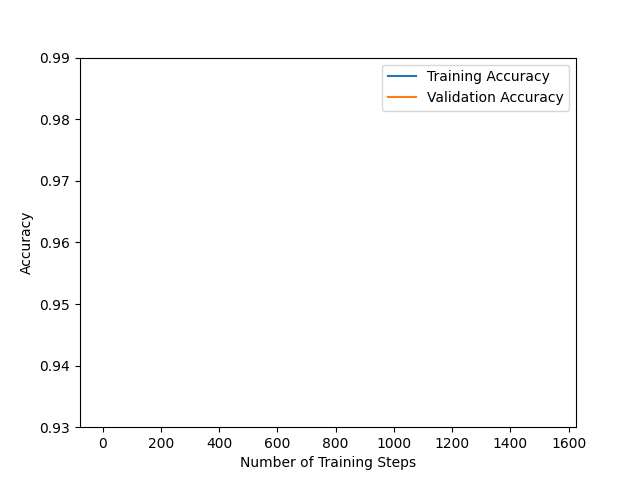
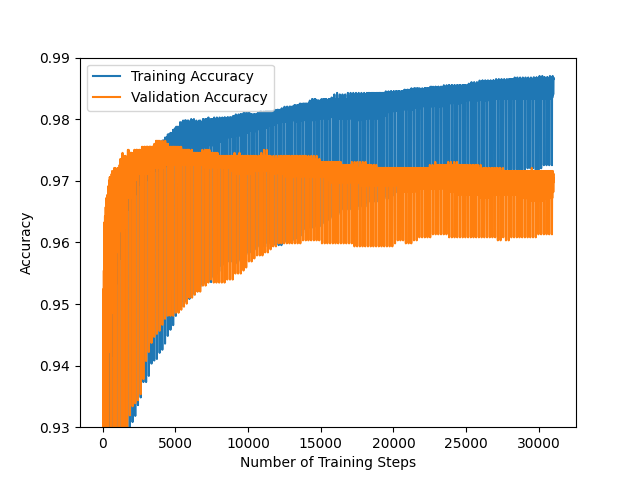
Working on 2d

Changed region(s): [[0.125, 0.125, 0.875, 0.9062], [0.2188, 0.9062, 0.6562, 0.9375], [0.6875, 0.9062, 0.9375, 0.9375]]

diff --git a/assignment1/trainer.py b/assignment1/trainer.py
@@ -37,6 +37,7 @@ class BaseTrainer:
             accuracy_val (float): Accuracy on the validation dataset
         """
         pass
+        
 
     def train_step(self):
         """
@@ -73,6 +74,9 @@ class BaseTrainer:
         )
 
         global_step = 0
+        counter = 0
+        prev_val_loss = np.inf
+        tolerance = 10e-6
         for epoch in range(num_epochs):
             train_loader = utils.batch_loader(
                 self.X_train, self.Y_train, self.batch_size, shuffle=self.shuffle_dataset)
@@ -88,7 +92,24 @@ class BaseTrainer:
                     val_history["loss"][global_step] = val_loss
                     val_history["accuracy"][global_step] = accuracy_val
 
-                    # TODO (Task 2d): Implement early stopping here.
+                    #TODO (Task 2d): Implement early stopping here.
+                    #print("Validation loss: ", val_loss)
+                    #print("Previous validation loss: ", prev_val_loss)
+                    
+                    if val_loss < prev_val_loss - tolerance:
+                        print(counter)
+                        counter = 0
+                        
+                    else:
+                        counter += 1
+                        if counter == 10:
+                            print("Early stopping at ", epoch, " epoch")
+                            return train_history, val_history
+                    prev_val_loss = val_loss
                     # You can access the validation loss in val_history["loss"]
                 global_step += 1
+        print(prev_val_loss," ", val_loss)
         return train_history, val_history
+
+
+                    

diff --git a/assignment1/task2.py b/assignment1/task2.py
@@ -17,6 +17,11 @@ def calculate_accuracy(X: np.ndarray, targets: np.ndarray, model: BinaryModel) -
     """
     # TODO Implement this function (Task 2c)
     accuracy = 0.0
+    output = model.forward(X)
+    output[output > 0.5] = 1
+    output[output <= 0.5] = 0
+    accuracy = np.sum(output == targets) / len(targets)
+    
     return accuracy
 
 
@@ -38,10 +43,10 @@ class LogisticTrainer(BaseTrainer):
 
         outputs = self.model.forward(X_batch)
         self.model.backward(X_batch, outputs, Y_batch)
+        loss = cross_entropy_loss(Y_batch, outputs)
+        self.model.w = self.model.w - self.learning_rate * self.model.grad
         
         
-        
-        loss = 0
         return loss
 
     def validation_step(self):
@@ -69,7 +74,7 @@ class LogisticTrainer(BaseTrainer):
 
 def main():
     # hyperparameters DO NOT CHANGE IF NOT SPECIFIED IN ASSIGNMENT TEXT
-    num_epochs = 50
+    num_epochs = 1000
     learning_rate = 0.05
     batch_size = 128
     shuffle_dataset = False
